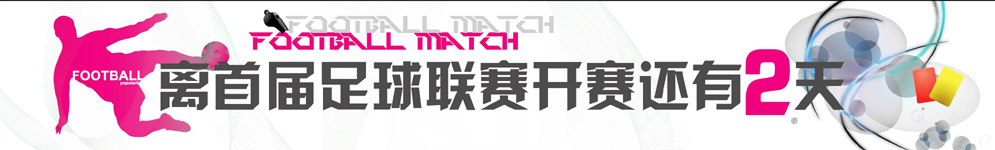
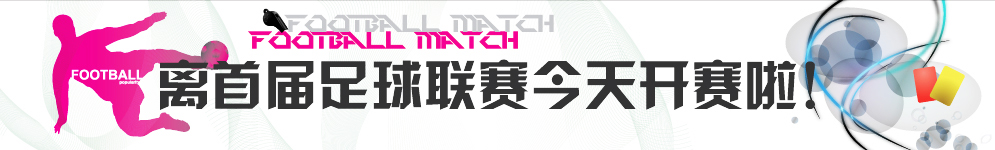
robbin

diff --git a/inc/top.inc.php b/inc/top.inc.php
@@ -30,7 +30,7 @@
 	</div>
 </div>
 <div id=nimg>
-	<?php $days=daysInSpan(mktime(0,0,0,date('m'),date('d'),date('Y')),mktime(0,0,0,11,01,2009)); if($days>=0){?>
+	<?php $days=daysInSpan(mktime(0,0,0,date('m'),date('d'),date('Y')),mktime(0,0,0,11,01,2009)); alert($days); if($days>=0){?>
 	<a href="/subject/football.php"><img border=0 src="/images/pic/<?php echo $days; ?>.jpg"></a>
 	<?php }else { ?>
 	<? }?>
